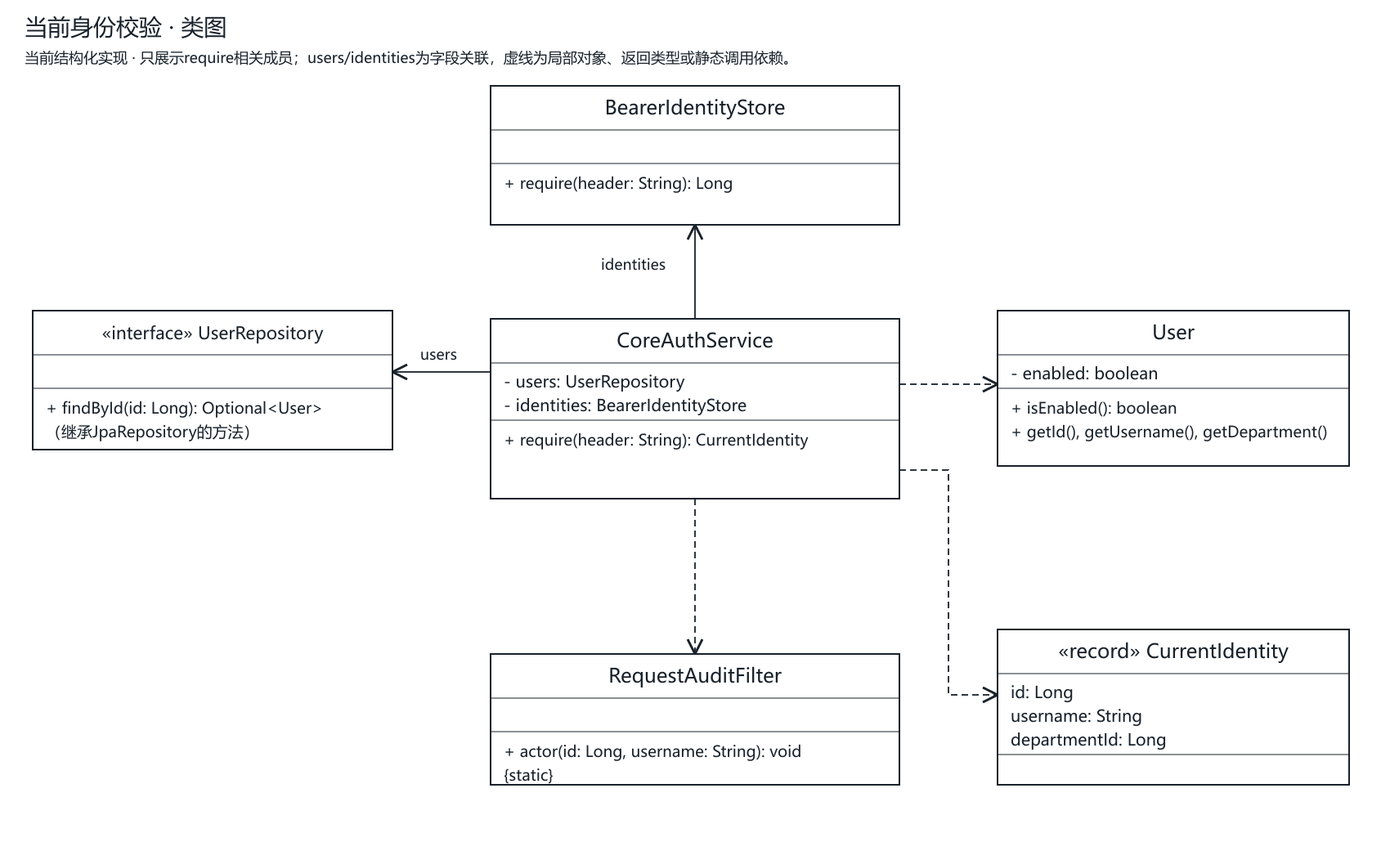
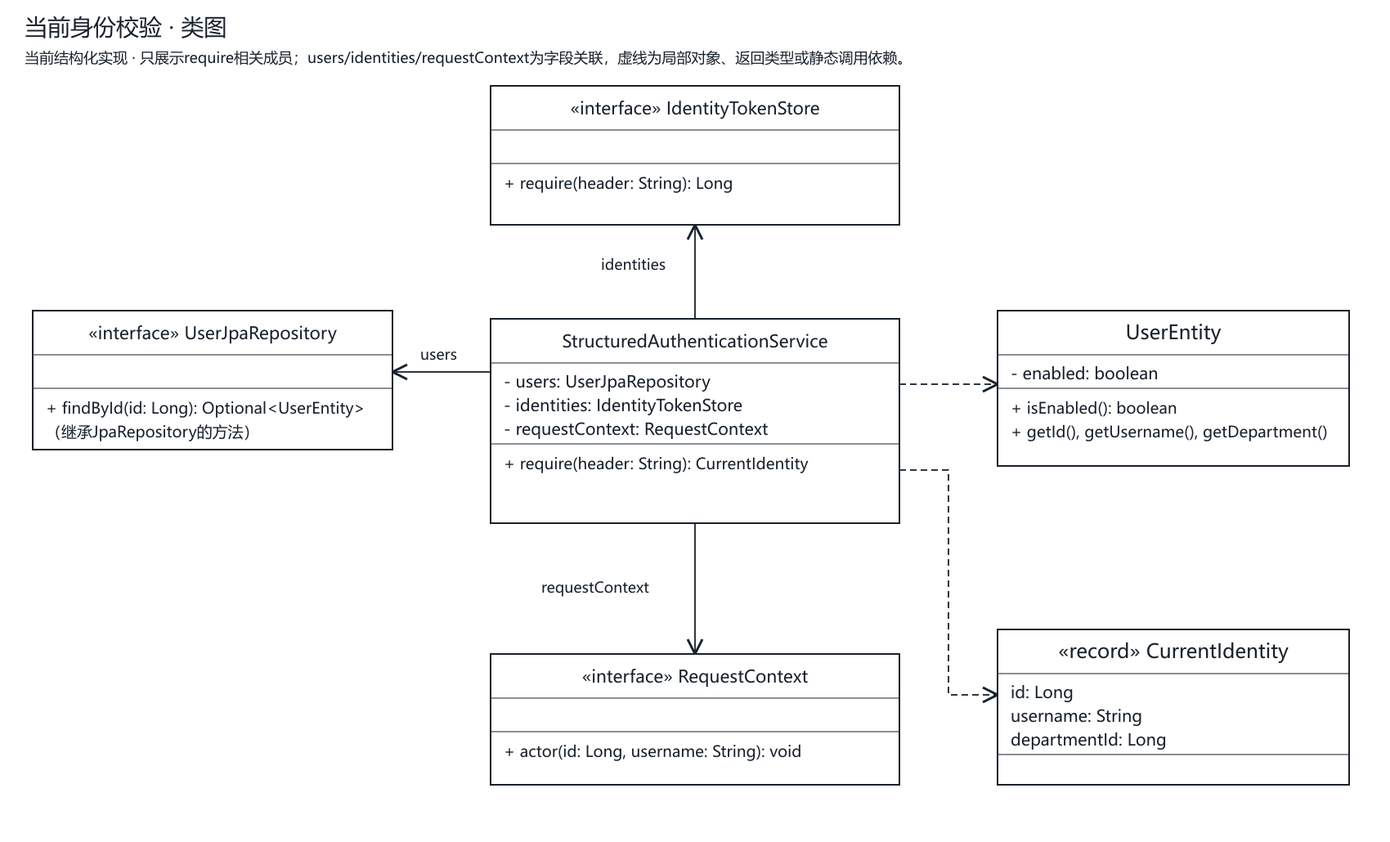
docs: record structured boundaries and verified local workflow

diff --git a/docs/code-organization.md b/docs/code-organization.md
@@ -1,0 +1,72 @@
+# 结构化代码与测试归类
+
+2026-11-13；本分支codex/structured-code-organization，起点d1438d7（文档PR #29已合入）。本阶段整理当前RBAC结构化代码及本地测试，用户后续另行安排DDD和新前端；服务器/部署方案等待新增服务器确定，不在本轮实施。
+
+## 1. 项目及生产代码边界
+
+后端Maven项目从根pom.xml/src移到backend；frontend仍是生产Vue入口，prototype仍是参考交互，docs维护正式规范。全库只保留一份后端源码，不复制structured/ddd两套工程。实际目录与本地命令见[backend/README](../backend/README.md)。
+
+| 目录 | 责任与依赖 |
+| --- | --- |
+| api.auth/user/role/resource/audit | 共享Controller、dto、vo；只依赖公共用例，执行输入校验及CloneFactory映射 |
+| api.shared | 响应信封、异常HTTP适配、ID上限；requestId及错误事件经RequestContext端口获取，不直接引用过滤器 |
+| service.port | 用例接口、独立Command/Query/Result、纯枚举及认证/请求/日志/来源读取支撑抽象；不引用Spring、JPA、Servlet、Entity或HTTP DTO/VO |
+| service.structured | 事务脚本、范围/有效授权/可授予/根锁/K及首次初始化；直接使用Infrastructure中的JPA仓储，保持结构化实现 |
+| infrastructure.persistence.entity/repository | 明确Entity和JpaRepository命名、映射、查询及数据库约束；持久化数据局部校验不作为DDD聚合 |
+| infrastructure.security/web/logging/excel | BCrypt/Bearer、MVC预检和参数绑定、请求支撑、日志及Excel读取适配 |
+| config / bootstrap | Spring上下文/秘密读取/扫描及HTTP、离线导入、首次授权入口 |
+
+不创建service.ddd目录，不启用假策略开关，不把JPA Entity换名后宣称DDD。本轮结构化Service可以使用JPA Specification和仓储；未来DDD应用服务必须另行通过领域仓储端口，不能调用structured冒充领域实现。
+
+## 2. 共享用例与基础设施
+
+| 用例/支撑 | 实际接口 | 当前实现/适配 |
+| --- | --- | --- |
+| 登录、本人 | AuthenticationUseCase | StructuredAuthenticationService |
+| 范围树、人员列表 | UserQueryUseCase | StructuredUserQueryService |
+| 人员角色/停用/调动 | UserManagementUseCase | StructuredUserManagementService |
+| 角色定义、选权 | RoleUseCase | StructuredRoleService |
+| 资源与API映射 | ResourceUseCase | StructuredResourceService |
+| 最小日志查询 | AuditLogUseCase | StructuredAuditLogService |
+| 全局范围与操作预检 | ManagementAccessUseCase | StructuredGlobalManagementAccess |
+| 新项目账号导入 / 首次五角色 | ImportUseCase / AuthorizationBootstrapUseCase | StructuredImportService / StructuredInitialAuthorizationService |
+| 最新API集合 / 根锁及K | ManagementAuthorization / MaintenanceProtection | StructuredEffectivePermissionService / StructuredMaintenanceGuard |
+| 口令 / 身份索引 | PasswordHashing / IdentityTokenStore | BCryptPasswordHashing / BearerIdentityStore |
+| 请求操作与追踪 / 事件记录 | RequestContext / AuditWriter | HttpRequestContext / JpaAuditWriter |
+| 原始资料读取 | SourceWorkbookReader | WorkbookImportPlanner（复用ExcelXmlReader） |
+
+Controller与预检/AOP不再引用具体StructuredService。写用例的事务/根锁/锁后重验及完整K顺序保留；身份索引只保存身份，不缓存权限；双入口、实际API OR、人员Permission子集、110部门/10001账号及五角色均沿现行需求。
+
+## 3. 映射、校验与日志整改
+
+- 将CoreResults/各Models及Views容器拆成独立文件，名称直接表达Command、Query、Result、DTO、VO。PermissionType移到纯用例值，API/端口不再依赖Entity内嵌枚举。
+- Entity→Result的CloneFactory声明改由Entity端CopyTo维护，避免结果模型反向导入持久化类；同名字段仍用真实处理器。primitive的is前缀、关系ID、集合元素及派生值保留显式转换。
+- 角色PATCH及API启停补copyNotNull；角色编码不在PATCH输入内，parentId缺省/显式null仍显式处理，不绕过树约束。原getter/setter/空构造样板交Lombok，保留只读集合和必要数据校验。
+- 人员查询q先在DTO trim后验长，部门筛选ID补安全整数上限；Service保留范围及数据库筛选职责。由行为失败先复现后修复，未改变OpenAPI既有规则。
+- 鉴权日志allowed与后续400/404/409/500业务结果分开；401/403和范围拒绝仍记拒绝。统一层日志覆盖API/Service/Infrastructure，Servlet过滤器生命周期从方法AOP排除，避免代理破坏容器初始化；其安全事件仍由原过滤器采集。
+
+## 4. 按需求组织测试
+
+| 需求组/目录 | 测试类/契约 | 旧任务来源 |
+| --- | --- | --- |
+| r01 | R01ModelRulesTest、R01JpaConstraintTest | T02核心模型/真实约束 |
+| r03、r04、r06 | R03StructuredImportJpaTest、R03WorkbookImportPlannerTest、R03ExcelSourceTest、R03ExcelImportTest、R04UserIdentifierTest、R06InitialRoleRulesTest | T03/T05原件、账号与首次分类 |
+| r07 | R07AuthenticationContractSupport + R07StructuredAuthenticationContractTest | T05双入口/准入/查询/日志，覆盖R04/R07—R10/R16等 |
+| r11 | R11UserManagementContractSupport + R11StructuredUserManagementContractTest | T11人员管理、子集/调动/并发保护 |
+| r13 | R13RoleContractSupport + R13StructuredRoleContractTest | T09角色、选权/共享维护者 |
+| r14 | R14ResourceContractSupport + R14StructuredResourceContractTest | T07资源树/API映射/并发 |
+| r18 | R18UserQueryValidationTest | DTO清洗顺序及安全ID回归 |
+| r22 | R22Import/Resource/Role/UserDatabaseBoundaryTest | 各专库/profile守卫 |
+| infrastructure | R03ExcelReaderBoundaryTest、R16RequestAuditBoundaryTest、R16ManagedAuditTest | 格式/隐私/日志切面职责 |
+| architecture | R19R21StructuredBoundaryTest、R19CloneFactoryMappingTest、R19LegacyRemovalBoundaryTest | 分层、真实映射、旧物禁用 |
+| shared | TestProjectPaths | 统一定位仓库根、后端和原Excel |
+
+HTTP测试拆成可复用的抽象ContractSupport与当前Structured启动类，保留所有原断言、真实MySQL、实际HTTP、故障注入和确定并发同步点。ContractSupport不依赖具体StructuredService；当前启动类只装配结构化实现，不创建DDD测试类。测试名/DisplayName带需求编号，旧Txx只用于历史追溯；profile和库名保留以保持既有安全约束。
+
+本地运行验收和3项环境隔离单测移至backend/scripts，测试辅助代码不混入生产src/main。SQL仍保留deploy原件，未修改表结构或搬迁旧数据库。实际结果见[测试说明](testing-acceptance.md)及[本阶段验收](acceptance/structured-organization.md)，不覆盖[T13历史事实](acceptance/T13.md)。
+
+## 5. 本轮交付与后续边界
+
+本地接口和数据库契约保留，当前只有结构化实现；前端未重做。根Dockerfile、.dockerignore、Stack与旧容器测试脚本按用户要求暂不适配，待新服务器方案统一整理，不能将本地JAR验收写成部署成功。
+
+代码整理在独立分支交付草稿PR，不自行推进新原型/DDD或T14/T15。后续每次编码同步更新需求、设计、实际路径和当阶段结果；历史验收固定版本/时间，避免旧结论代表当前状态。

diff --git a/docs/acceptance/structured-organization.md b/docs/acceptance/structured-organization.md
@@ -1,0 +1,42 @@
+# 结构化代码归类验收记录
+
+日期2026-11-13；本阶段范围是现有RBAC结构化代码及测试归类，不是DDD、新前端或服务器部署验收。共同起点为d1438d7（文档PR #29）；生产逻辑提交16adbcb153e31f38c2c8c0ccfe126ea3a5e3786d，最终注释/测试需求命名及本地运行入口提交34f3cecc0c3364e2a1e64bde406284e46c8cc5bd。
+
+## 1. 实际环境与隔离
+
+Microsoft OpenJDK21.0.13.0.2、MySQL8.4.8、Maven3.8.5。本轮新建工作区私有mysql-structured-data，MySQL仅绑定127.0.0.1:3322；分别建立rbac_core_t02/t03/t05/t07/t09/t11_test六个回归专库及空rbac_core运行探针库。配置前核实实际@@datadir，测试用户仅授六个专库权限。原业务库、T13私有实例/证据和三份Excel未改。
+
+当前源码、测试编号与边界见[代码归类](../code-organization.md)；本机变量及可复现命令见[后端说明](../../backend/README.md)。执行完整回归使用正式backend/scripts/test-backend.ps1入口，传入clean package及UTC/JVM参数，不跳过测试。运行探针使用backend/scripts/accept-runtime.py，拒绝非空库与Spring/JVM额外配置，不提供自动清库。
+
+## 2. 先失败后修复
+
+| 目标 | 失败证据 | 最终处理 |
+| --- | --- | --- |
+| R19/R21分层边界 | 原目录下4项断言失败：缺少独立backend、共享用例与结构化层 | 迁移并抽取真实用例/支撑端口，边界测试通过 |
+| R13/R19非空映射 | 角色copyNotNull方法实际不存在，2项测试中1项行为失败 | 补老师处理器注解及Service调用，保留编码/缺省字段，三态另测 |
+| R16判定职责 | 业务400/404/409/500被误记拒绝，6项中4项失败 | allowed与HTTP业务结果分开，401/403及范围拒绝仍记拒绝 |
+| R10/R18输入边界 | q清洗顺序和安全ID上限2项失败 | DTO先trim再验长，补安全整数上限，Service不做请求清洗 |
+
+迁移后的首次全回归发现过滤器被方法AOP代理而影响Servlet生命周期，已排除该过滤器的层方法日志，保留原事件采集。最终注释清理曾误识别路由通配符，已由3项真实权限顺序用例发现、恢复16adbcb原路径；对161份生产Java源码进行解析后语法树比较，确认最终生产语义与通过完整运行探针的16adbcb一致。失败和诊断运行不计入通过成绩。
+
+## 3. 当前通过结果
+
+| 检查 | 真实结果与范围 |
+| --- | --- |
+| 最终完整clean package | 156项，Failures/Errors/Skipped均0，BUILD SUCCESS；原142项保留，加14项分层/映射/日志/输入回归，四组共享HTTP契约由Structured启动类执行 |
+| 验收工具环境安全 | 3项Python单测通过；覆盖额外Spring/JVM覆盖前置拒绝、正常核实路径和Java子进程变量白名单 |
+| 正式空库初始化 | 正式SQL、生产BCrypt10逐账号盐、111组织来源→110部门、10000员工+独立admin、根直属11人；导入不授角色 |
+| 首次五角色 | 只读预检不写授权，实际人数1/64/106/72/9758；预检与实际命令分开 |
+| 16adbcb默认JAR完整探针 | 70次真实HTTP及两轮启动通过；双入口、范围/筛选、角色/资源/人员授撤、停用/调动、完整维护者回滚、日志快照、旧入口、重复初始化保留维护结果 |
+| 最终34f3cec产物启动 | 另3次真实HTTP通过：匿名本人、系统目录、非法角色PATCH均先返回401及requestId；校验默认Start-Class和真实CloneFactory，旧包不进入jar |
+| 代码/图件/文档 | Java21解析检查类/记录/关键方法的Javadoc；需求编号进入测试名/DisplayName；2组当前UML由同一脚本生成SVG/PNG并打开检查；正式链接/OpenAPI/资产摘要检查通过 |
+
+完整探针JAR SHA-256为d2ea9948d934fdbfdb32fd3c00f5ef572ba7b8e93f1d7c1e1ad9e217f6d661b0，产物在本地忽略目录structured-artifacts/16adbcb-rbac0-0.1.0.jar保留。最终34f3cec JAR SHA-256为6563580fcf568e5a1667f1bb51ba424d203d58b68ee46cb13fe7829e15afa29c。之后文档/图件不改变生产源码；未来重建不要求相同打包时间或摘要。
+
+## 4. 证据与限制
+
+原始证据仅放共同工作区忽略目录.local/rbac-issues：structured-final-regression-restored.log、structured-audit-red-unsandbox.log/structured-audit-green.log、structured-query-red.log、structured-mapping-red.log、structured-boundary-red.log，以及structured-final-jar-summary.json。完整运行证据目录为structured-runtime-1794502488520565900，含environment.json、summary.json、离线初始化和两轮JAR日志。原始日志/凭据/万人CSV不提交；以上给出可复核摘要。
+
+JaCoCo配置保留，按用户要求不作为本轮阻塞；未运行verify来宣称100%覆盖。根Dockerfile、.dockerignore、Stack及旧容器脚本未适配，待新增服务器方案统一处理；本轮不操作服务器，不宣称部署可用。仅有结构化实现和旧前端兼容入口，DDD及新前端尚未实施。
+
+本分支技术检查和代理审核不代替用户验收，按草稿PR交付，不自动合并或推进下阶段。后续代码变化另记对应版本及新结果，T13原记录保留其当时事实。

diff --git a/docs/testing-acceptance.md b/docs/testing-acceptance.md
@@ -10,7 +10,8 @@
 | 正式前端 | 生产仅登录/日志兼容与最小外壳，原型是内存模拟 | 完整设计保留；新原型审核后才正式更新 |
 | DDD | 目标分层与聚合已设计，无DDD实现/策略开关 | 后续编码及同契约验收，当前不宣称通过 |
 | 课程系统/双业务系统 | 等待老师进一步要求 | T14/T15当前不实施 |
-| 本次文档整理 | 独立分支、链接/契约/资产核对及原型路径测试 | 用户逐项审核，不自行合并；不启动代码整理 |
+| 文档阶段 | PR #29已于2026-11-13经用户批准合入 | 历史文件清单保留；当前进入结构化代码归类 |
+| 当前结构化归类分支 | 最终代码34f3cec：Java21/本轮私有MySQL完整package共156项通过，Failures/Errors/Skipped均0；3项Python环境安全单测、70次完整JAR HTTP及最终产物3次HTTP通过 | [本阶段记录](acceptance/structured-organization.md)保留源码/产物及失败诊断边界；不代表DDD/新前端/服务器部署完成 |
 
 ## 2. 需求验证矩阵
 
@@ -41,20 +42,20 @@
 
 ## 3. 复现入口与隔离
 
-Java21/MySQL8.4，先安装[固定CloneFactory](../deploy/README.md#本机依赖安装)。真实数据库回归使用六个本机专库，profile与URL严格匹配；完整环境变量和默认JAR探针见[T13复现步骤](acceptance/T13.md#2-可复现步骤)。不得为了跑通测试把守卫改成业务库，或用线上演示账号替代夹具。
+Java21/MySQL8.4，先安装[固定CloneFactory](../deploy/README.md#本机依赖安装)，当前构建命令使用mvn -f backend/pom.xml。真实数据库回归使用六个本机专库，profile与URL严格匹配；当前环境变量和默认JAR探针见[后端说明](../backend/README.md)，T13保留当时目录的历史复现。不得为了跑通测试把守卫改成业务库，或用线上演示账号替代夹具。
 
-产品初始化命令只维护在[部署说明](../deploy/README.md#新库初始化约束)。验收探针拒绝非空库并核对实际datadir，失败不自动清库。隔离环境、原始资料与测试夹具分别标注；报告记录源提交、JDK/MySQL版本、命令、结果及限制。未来代码归类或DDD阶段须重跑受影响真实回归，不能沿用T13数字。
+当前产品本地初始化命令只维护在[后端说明](../backend/README.md#3-新项目本地初始化与运行)。验收探针拒绝非空库并核对实际datadir，失败不自动清库。隔离环境、原始资料与测试夹具分别标注；报告记录源提交、JDK/MySQL版本、命令、结果及限制。未来代码归类或DDD阶段须重跑受影响真实回归，不能沿用T13数字。
 
-JaCoCo脚本和门槛见[现场说明](../deploy/现场运行JaCoCo.md)；用户确认当前不作为阻塞，配置保留。功能test通过不等于verify覆盖率达标，不通过时不得用skipTests、排除类或旧exec冒充。无Docker环境时不宣称镜像/Swarm验收。
+旧容器JaCoCo脚本见[现场说明](../deploy/现场运行JaCoCo.md)，待新服务器方案适配；当前本地Maven配置保持，用户确认当前不作为阻塞，配置保留。功能test通过不等于verify覆盖率达标，不通过时不得用skipTests、排除类或旧exec冒充。无Docker环境时不宣称镜像/Swarm验收。
 
 ## 4. 本次文档验证范围
 
 核对现行Markdown链接/锚点、HTML资源、OpenAPI3.1合法性、YAML/JSON同源一致、24操作与17项K、原Excel/ER和原型JS摘要不变。原型目录迁移后，替换已淘汰旧原型测试，使其加载真实参考原型并验证范围/同系统拒绝；前端npm test及build检查现有工程未因清理破坏。
 
-本次不修改生产Java/SQL/前端页，不重新初始化万人数据库；历史T13记录保留原时间语境。实际检查结果随分支审核摘要记录，不把计划检查自动标为已通过。用户审核入口为[逐项指南](review-guide.md)。
+上一阶段文档整理不改生产行为。当前结构化归类会修改Java与测试目录、映射及职责，真实回归和私有库运行验收须取得新证据；历史T13记录保留原时间语境。实际检查结果随分支审核摘要记录，不把计划检查自动标为已通过。用户审核入口为[逐项指南](review-guide.md)。
 
 ## 5. 证据与完成条件
 
 临时日志、CSV、数据库、凭据、构建报告放忽略目录；不提交万人清单或含秘密的Surefire XML。保留原Excel、原库和历史日志。每阶段记录自动验证、代理审核、用户审核三种不同证据；代理双轴复核不代替用户/老师验收。
 
-本阶段完成是文件自洽、检查通过、分支/草稿PR及审核清单可逐项审阅；用户未批准前不合并。双实现最终完成还须真实全量UI、两套独立业务实现及同契约端到端通过，T13后端基线本身不满足这些条件。
+当前阶段完成是代码边界自洽、真实回归通过、文档/图件对应源码、分支/草稿PR可逐项审阅；用户未批准前不合并。双实现最终完成还须真实全量UI、两套独立业务实现及同契约端到端通过，T13后端基线本身不满足这些条件。

diff --git a/backend/README.md b/backend/README.md
@@ -1,0 +1,67 @@
+# RBAC结构化后端
+
+Java21、Spring Boot3.5.6、Spring Data JPA、MySQL8.4及老师真实CloneFactory。当前只有结构化业务实现，DDD后续单独编写；不提供尚未实现的策略开关。完整[代码与测试归类](../docs/code-organization.md)说明共享API、用例及基础设施边界。
+
+## 1. 目录与构建
+
+```text
+backend/
+├── pom.xml
+├── src/main/java/com/municipal/rbaccore/
+│   ├── api/{auth,user,role,resource,audit,shared}
+│   ├── service/port/{auth,user,role,resource,audit,security,importing,bootstrap,error}
+│   ├── service/structured/{auth,user,role,resource,audit,security,importing,bootstrap}
+│   ├── infrastructure/{persistence,security,web,logging,excel}
+│   ├── config
+│   └── bootstrap
+├── src/test/java/com/municipal/rbaccore/{r01,r03,r04,r06,r07,r11,r13,r14,r18,r22,architecture,infrastructure,shared}
+└── scripts/{accept-runtime.py,tests,test-backend.ps1}
+```
+
+先按[固定依赖安装](../deploy/README.md#本机依赖安装)准备老师CloneFactory。以下命令在仓库根执行：
+
+```powershell
+mvn -f backend/pom.xml clean test-compile
+mvn -f backend/pom.xml clean package
+python -B -m unittest discover -s backend/scripts/tests -v
+```
+
+完整package包含真实MySQL测试，必须先提供对应本机专库及测试账号；不能指向业务库。测试变量/库映射见下节，JaCoCo仍单独报告，当前不作为阻塞。打包结果为backend/target/rbac0-0.1.0.jar，默认入口com.municipal.rbaccore.bootstrap.RbacApplication。
+
+## 2. 本地回归与隔离
+
+| 环境变量 | 必须匹配的本机专库 |
+| --- | --- |
+| RBAC_CORE_TEST_DB_URL | rbac_core_t02_test |
+| RBAC_CORE_IMPORT_TEST_DB_URL | rbac_core_t03_test |
+| RBAC_CORE_HTTP_TEST_DB_URL | rbac_core_t05_test |
+| RBAC_CORE_RESOURCE_TEST_DB_URL | rbac_core_t07_test |
+| RBAC_CORE_ROLE_TEST_DB_URL | rbac_core_t09_test |
+| RBAC_CORE_USER_TEST_DB_URL | rbac_core_t11_test |
+
+另提供共用RBAC_CORE_TEST_DB_USER/PASSWORD。URL只允许127.0.0.1或localhost及明确端口/专库，建议UTC参数；原profile/库名为兼容既有安全守卫而保留，不再决定测试源码目录。原Excel保留仓库根，可用RBAC_TEST_EXCEL_DIR明确指定原件目录。所有数据源安全守卫先于创建连接执行，不应为跑通测试放宽。
+
+Windows可使用[scripts/test-backend.ps1](scripts/test-backend.ps1)，其只检查前置并运行Maven，不创建/清空实例。跨平台直接运行上述Maven命令。模型测试只在其专库create-drop；HTTP/导入测试使用正式SQL及事务/清理夹具，不能在业务库执行。
+
+## 3. 新项目本地初始化与运行
+
+先显式准备独立rbac_core及专用账号，依次执行deploy/rbac-core-schema.sql、deploy/rbac-core-runtime.sql；应用启动只validate，不建表。完整来源/五角色/幂等规则见[初始化设计](../docs/initialization.md)。通过秘密环境配置提供RBAC_CORE_DB_URL/USER/PASSWORD、RBAC_CORE_SOURCE_DIR（含三份原Excel的仓库根）、RBAC_CORE_EMPLOYEE_PASSWORD和RBAC_CORE_ADMIN_PASSWORD；可选RBAC_CORE_ADMIN_USERNAME默认admin。不在命令参数、Git或报告填写秘密。
+
+在仓库根按顺序执行：
+
+```powershell
+# 导入组织和账号，尚不授角色。
+java -Dloader.main=com.municipal.rbaccore.bootstrap.ImportCommand -cp backend/target/rbac0-0.1.0.jar org.springframework.boot.loader.launch.PropertiesLauncher
+# .local目录须存在，预检CSV必须为新文件；生成后先核对清单。
+java -Dloader.main=com.municipal.rbaccore.bootstrap.BootstrapAuthorizationCommand -cp backend/target/rbac0-0.1.0.jar org.springframework.boot.loader.launch.PropertiesLauncher --rbac.core.preview-file=.local/initial-role-preview.csv
+# 不带preview-file才执行首次批量授权。
+java -Dloader.main=com.municipal.rbaccore.bootstrap.BootstrapAuthorizationCommand -cp backend/target/rbac0-0.1.0.jar org.springframework.boot.loader.launch.PropertiesLauncher
+# 默认产品入口启动；再次启动不导入或重授角色。
+java -jar backend/target/rbac0-0.1.0.jar
+```
+
+HTTP默认8081，前端代理/api不变。后端原24个操作的机器契约见[OpenAPI](../api/openapi.yaml)。需要新空库端到端复现时，使用[accept-runtime.py](scripts/accept-runtime.py)并按[验收说明](../docs/testing-acceptance.md)提供实际私有datadir、MySQL客户端及JDK21；探针拒绝非空库和额外Spring/JVM覆盖，不提供清库开关。
+
+## 4. 当前部署边界
+
+用户确认后续会增加服务器，云拓扑/镜像/Stack发布留待新方案。现有根Dockerfile、.dockerignore及deploy中旧容器脚本未适配本轮backend目录，不能据此宣称当前镜像或线上可用。本阶段只验证本地构建、私有MySQL和默认JAR，不操作服务器。

diff --git a/README.md b/README.md
@@ -19,17 +19,17 @@
 
 ## 当前基线与目标
 
-共同基线为refactor/rbac-core-backend，main仍保留历史工程。当前后端位于src/main/java/com/municipal/rbaccore，使用Java21、Boot3.5.6、JPA、MySQL8.4、AOP与老师真实CloneFactory。尚未整理成structured/ddd目录，没有DDD实现或策略开关；这些是后续设计目标。
+共同基线为refactor/rbac-core-backend，main仍保留历史工程。当前后端Maven项目位于backend，代码位于backend/src/main/java/com/municipal/rbaccore，使用Java21、Boot3.5.6、JPA、MySQL8.4、AOP与老师真实CloneFactory。业务层已按service/structured归类，共享API经service/port调用，持久化和认证/日志等归入infrastructure；没有DDD实现或策略开关。详见[代码归类](docs/code-organization.md)。
 
 生产前端frontend为Vue3/Vite，目前仅登录、最小日志兼容与登录成功外壳。完整人员、角色、资源及日志页面属于设计范围；顶层prototype保留原四组内存交互参考，新前端原型须单独审核。课程系统指老师Gitee课程项目，T14/T15等待老师进一步要求。
 
 T13历史验收记录142项后端回归、3项运行器安全单测、70次默认JAR真实HTTP及两轮启动，详见[原验收记录](docs/acceptance/T13.md)。本次文档分支不重新执行或冒称这些结果，也不代表完整前端、DDD或云端通过。
 
-本次只清理/完善正式文档，独立分支供用户逐项审核，未经确认不合并。后续按文档→结构化归类→新原型→正式前端→DDD→双实现总验收推进，详见开发计划。
+文档阶段已审核并合入PR #29；当前进入结构化代码与测试归类，独立分支交付。后续按文档→结构化归类→新原型→正式前端→DDD→双实现总验收推进，详见开发计划。
 
 ## 运行入口
 
-先按部署说明安装固定来源CloneFactory、显式准备独立rbac_core及秘密配置，再执行离线导入、只读预览、实际五角色授权。默认jar为target/rbac0-0.1.0.jar；启动不建表、不导入、不重授角色。不能指向旧业务库。
+本地构建/初始化见[后端说明](backend/README.md)，先安装固定来源CloneFactory、显式准备独立rbac_core及秘密配置，再执行离线导入、只读预览、实际五角色授权。用户确认云部署待新增服务器方案确定后再整理，旧容器配置暂不适配本轮目录。默认jar为backend/target/rbac0-0.1.0.jar；启动不建表、不导入、不重授角色。不能指向旧业务库。
 
 现有前端在frontend执行npm ci、npm run dev，默认5173代理/api到后端8081；npm test和npm run build分别检查测试与构建。参考原型可直接打开prototype/index.html。
 

diff --git a/docs/acceptance/T13.md b/docs/acceptance/T13.md
@@ -1,5 +1,7 @@
 # T13 当前RBAC后端集成验收
 
+> 历史记录：本页对应下文固定版本和当时目录。2026-11-13后端归类后，当前运行入口与阶段结果见[代码归类](../code-organization.md)及[测试说明](../testing-acceptance.md)；本页原成绩不覆盖后续改动。
+
 ## 1. 对象与边界
 
 需求/接口依据为[需求说明](../requirements.md)、[正式契约](../api-contract.md)和[验收矩阵](../testing-acceptance.md)。共同基线32f0361包含文档PR #27及T12；当前生产实现仍为结构化Service，本票不移动源码、不实现DDD、不启动T14/T15。
@@ -21,7 +23,7 @@ python -B -m unittest discover -s scripts/tests -v
 
 完整package包含142项现有后端测试，不加skipTests；其事务/并发测试使用真实JPA/MySQL。Python安全单测只检查验收工具在接库前的环境保护，不模拟业务数据库。
 
-默认JAR探针使用[scripts/accept-core-runtime.py](../../scripts/accept-core-runtime.py)。通过环境/秘密配置分别提供RBAC_CORE_DB_URL、RBAC_CORE_DB_USER、RBAC_CORE_DB_PASSWORD、RBAC_CORE_EMPLOYEE_PASSWORD、RBAC_CORE_ADMIN_PASSWORD；可选RBAC_CORE_ADMIN_USERNAME默认admin。指定RBAC_ACCEPTANCE_DATADIR为实际私有datadir绝对路径，MYSQL_CLIENT为mysql可执行文件，JAVA_HOME为实际JDK21。三份原始Excel留在仓库根，脚本核对已确认摘要，不接受任意替代来源。
+默认JAR探针使用[scripts/accept-core-runtime.py](https://github.com/minxuanbo/ooad-course-project/blob/1149c24c83c2ff40108e59af73cf00916c326bf8/scripts/accept-core-runtime.py)。通过环境/秘密配置分别提供RBAC_CORE_DB_URL、RBAC_CORE_DB_USER、RBAC_CORE_DB_PASSWORD、RBAC_CORE_EMPLOYEE_PASSWORD、RBAC_CORE_ADMIN_PASSWORD；可选RBAC_CORE_ADMIN_USERNAME默认admin。指定RBAC_ACCEPTANCE_DATADIR为实际私有datadir绝对路径，MYSQL_CLIENT为mysql可执行文件，JAVA_HOME为实际JDK21。三份原始Excel留在仓库根，脚本核对已确认摘要，不接受任意替代来源。
 
 清除遗留SPRING_*、Spring点号配置、loader及JVM配置注入变量后执行：
 

diff --git a/AGENTS.md b/AGENTS.md
@@ -2,9 +2,9 @@
 
 现行资料从[文档导航](docs/README.md)进入，业务需求以老师说明、原始资料和用户确认形成的[需求说明](docs/requirements.md)为准；老师Gitee项目用于文档与架构参考。HTTP字段主规范为api/openapi.yaml，跨字段、授权、范围与事务语义见docs/api-contract.md。
 
-2026-11-12本次授权仅清理并完善正式文档，独立分支交用户逐项审核。未经用户明确确认不得合并，不推进代码归类、新前端原型、正式前端、DDD或T14/T15。T13已完成，记录见docs/acceptance/T13.md；旧“T13后停止”是当时边界，不代替最新[开发计划](docs/development-plan.md)。
+2026-11-13用户已审核并授权合入文档PR #29；当前授权进入结构化代码/测试归类，确定共享API、用例及基础设施边界，修复格式、CloneFactory和职责，并同步文档。使用独立分支交付，不自动合并或推进新前端原型、正式前端、DDD或T14/T15。用户补充部署先不处理，待增加服务器后确定新方案。T13已完成，记录见docs/acceptance/T13.md；旧“T13后停止”是当时边界，不代替最新[开发计划](docs/development-plan.md)。
 
-当前仅结构化业务实现，尚无DDD代码或策略开关；设计必须区分目标和现状。完整前端属于设计范围，当前原型只是参考，不冒称新原型已获批。
+当前结构化代码归于backend/src/main/java/com/municipal/rbaccore/service/structured，共享契约为service/port，尚无DDD代码或策略开关；设计必须区分目标和现状。完整前端属于设计范围，当前原型只是参考，不冒称新原型已获批。
 
 后续代码/测试改动遵循用户提供的projectmgt-code-conventions和code-review skill；本RBAC保留本地口令，分页沿既有page/size契约，不照搬课程系统外部身份或pageSize。UML skill只在其适用范围内使用，实际实现图须有源码依据。
 
